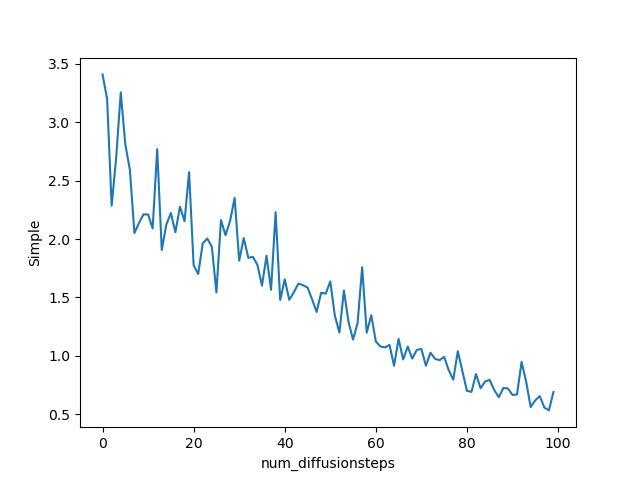
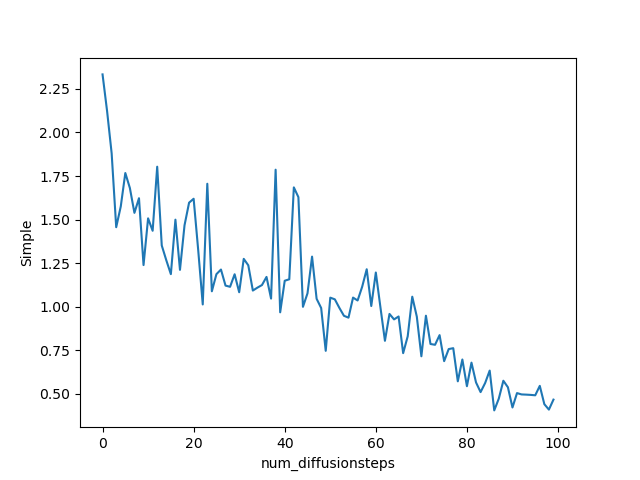
bug fix

diff --git a/models/diffusers/GaussianDiffusion.py b/models/diffusers/GaussianDiffusion.py
@@ -77,9 +77,7 @@ class GaussianDiffusion(nn.Module, DiffusionAB):
 
         # calculation for posterior q(x_{t-1} | x_t, x_0)
         self.posterior_var = (1.0 - self.alphas_cumprod_prev) / (1.0 - self.alphas_cumprod) * self.betas
-        self.posterior_log_var_clipped = torch.log(
-            torch.cat([self.posterior_var[:1], self.posterior_var[1:]])
-        )
+        self.posterior_log_var_clipped = torch.log(self.posterior_var)
         self.posterior_mean_coef1 = (
             self.betas * torch.sqrt(self.alphas_cumprod_prev) / (1.0 - self.alphas_cumprod)
         )
@@ -102,7 +100,9 @@ class GaussianDiffusion(nn.Module, DiffusionAB):
         t = context['t']
         assert 'x_0' in context
         x_0 = context['x_0']
-        return self.reverse_reparametrized(x_0, x_t_aug, x_t, t, cond, noise_true)
+        assert 'weights' in context
+        weights = context['weights']
+        return self.reverse_reparametrized(x_0, x_t_aug, x_t, t, cond, noise_true, weights)
 
 
     def forward_reparametrized(self, x_0: torch.Tensor, t: int, **kwargs) -> Tuple[torch.Tensor, Dict[str, torch.Tensor]]:
@@ -111,7 +111,7 @@ class GaussianDiffusion(nn.Module, DiffusionAB):
         x_t, noise = super().forward_reparametrized(x_0, t)
         return x_t, {'noise_true': noise, 'conditioning': cond}
 
-    def reverse_reparametrized(self, x_0, x_t_aug, x_t, t, cond, noise_true):
+    def reverse_reparametrized(self, x_0, x_t_aug, x_t, t, cond, noise_true, weights):
         '''
         Compute the reverse diffusion process for the current time step
         '''
@@ -143,13 +143,11 @@ class GaussianDiffusion(nn.Module, DiffusionAB):
 
         # Compute x_{t-1} from x_t through the reverse diffusion process for the current time step
         x_recon = 1 / torch.sqrt(alpha_t) * (x_t - (beta_t / torch.sqrt(1 - alpha_cumprod_t) * noise_t)) + (std_t * z)
-
         # Compute the mean squared error loss between the noise and the true noise
         L_mse = self._mse_loss(noise_t, noise_true)
         # Append the loss to the mse_losses list
         self.mse_losses.append(L_mse)
         # Compute the variational lower bound loss for the current time step
-
         L_vlb = self._vlb_loss(
             noise_t=noise_t.detach(),
             pred_log_var=log_var_t,
@@ -160,7 +158,9 @@ class GaussianDiffusion(nn.Module, DiffusionAB):
             alpha_t=alpha_t,
             alpha_cumprod_t=alpha_cumprod_t,
             clip_denoised=False,
+            weights=weights
         )
+
         # Append the loss to the vbl_losses list
         self.vlb_losses.append(L_vlb)
         # Return the reverse diffusion output and an empty dictionary
@@ -184,7 +184,7 @@ class GaussianDiffusion(nn.Module, DiffusionAB):
 
     #ported from https://github.com/openai/improved-diffusion/blob/main/improved_diffusion/gaussian_diffusion.py
     def _vlb_loss(
-        self, noise_t, pred_log_var, x_0, x_t, t, beta_t, alpha_t, alpha_cumprod_t, clip_denoised=False, model_kwargs=None
+        self, noise_t, pred_log_var, x_0, x_t, t, beta_t, alpha_t, alpha_cumprod_t, clip_denoised=False, model_kwargs=None, weights=None
     ):
         """
         Get a term for the variational lower-bound.
@@ -195,7 +195,6 @@ class GaussianDiffusion(nn.Module, DiffusionAB):
         pred_mean = self._p_mean(
             noise_t, x_t, t, beta_t, alpha_t, alpha_cumprod_t, clip_denoised=clip_denoised, model_kwargs=model_kwargs
         )
-
         kl = self._normal_kl(
             true_mean, true_log_variance_clipped, pred_mean, pred_log_var
         )
@@ -209,7 +208,7 @@ class GaussianDiffusion(nn.Module, DiffusionAB):
         # At the first timestep return the decoder NLL,
         # otherwise return KL(q(x_{t-1}|x_t,x_0) || p(x_{t-1}|x_t))
         output = torch.where((t == 0), decoder_nll, kl)
-        return output
+        return output / torch.from_numpy(weights).to(cst.DEVICE)[t]
 
     def _p_mean(self, noise_t, x_t, t,  beta_t, alpha_t, alpha_cumprod_t, clip_denoised=True, model_kwargs=None):
         '''
@@ -268,53 +267,21 @@ class GaussianDiffusion(nn.Module, DiffusionAB):
         :param log_scales: the Gaussian log var Tensor.
         :return: a tensor like x of log probabilities (in nats).
         """
-        '''
         assert x.shape == means.shape == log_scales.shape
         centered_x = x - means
-        var = torch.exp(log_scales)
-        first_term = - ((centered_x ** 2) / (2*var))
-        second_term = - log_scales*0.5
-        third_term = - (math.log(2*math.pi)/2)
-        log_probs = -((centered_x ** 2) / (2*var)) - (0.5 * log_scales) - (math.log(2 * math.pi)/2)
-        assert log_probs.shape == x.shape
-        '''
-        assert x.shape == means.shape == log_scales.shape
-        if torch.isnan(x).any():  # check for nan values in x
-            print("x contains nan:", torch.isnan(x).any())
-        centered_x = x - means
-        if torch.isnan(centered_x).any():  # check for nan values in centered_x
-            print("centered_x contains nan:", torch.isnan(centered_x).any())
         inv_stdv = torch.exp(log_scales)
-        if torch.isnan(inv_stdv).any():  # check for nan values in inv_stdv
-            print("inv_stdv contains nan:", torch.isnan(inv_stdv).any())
         plus_in = inv_stdv * (centered_x + 1.0)
-        if torch.isnan(plus_in).any():  # check for nan values in plus_in
-            print("plus_in contains nan:", torch.isnan(plus_in).any())
         cdf_plus = self._approx_standard_normal_cdf(plus_in)
-        if torch.isnan(cdf_plus).any():  # check for nan values in cdf_plus
-            print("cdf_plus contains nan:", torch.isnan(cdf_plus).any())
         min_in = inv_stdv * (centered_x - 1.0)
-        if torch.isnan(min_in).any():  # check for nan values in min_in
-            print("min_in contains nan:", torch.isnan(min_in).any())
         cdf_min = self._approx_standard_normal_cdf(min_in)
-        if torch.isnan(cdf_min).any():  # check for nan values in cdf_min
-            print("cdf_min contains nan:", torch.isnan(cdf_min).any())
         log_cdf_plus = torch.log(cdf_plus.clamp(min=1e-6))
-        if torch.isnan(log_cdf_plus).any():  # check for nan values in log_cdf_plus
-            print("log_cdf_plus contains nan:", torch.isnan(log_cdf_plus).any())
         log_one_minus_cdf_min = torch.log((1.0 - cdf_min).clamp(min=1e-6))
-        if torch.isnan(log_one_minus_cdf_min).any():  # check for nan values in log_one_minus_cdf_min
-            print("log_one_minus_cdf_min contains nan:", torch.isnan(log_one_minus_cdf_min).any())
         cdf_delta = cdf_plus - cdf_min
-        if torch.isnan(cdf_delta).any():  # check for nan values in cdf_delta
-            print("cdf_delta contains nan:", torch.isnan(cdf_delta).any())
         log_probs = torch.where(
             x < -0.999,
             log_cdf_plus,
             torch.where(x > 0.999, log_one_minus_cdf_min, torch.log(cdf_delta.clamp(min=1e-6))),
         )
-        if torch.isnan(log_probs).any():  # check for nan values in log_probs
-            print("log_probs contains nan:", torch.isnan(log_probs).any())
         return log_probs
 
 

diff --git a/models/NNEngine.py b/models/NNEngine.py
@@ -74,7 +74,6 @@ class NNEngine(L.LightningModule):
         self.simple_sampler = LossSecondMomentResampler(self.num_diffusionsteps)
         
 
-
     def forward(self, cond, x_0, is_train, batch_idx=None):
         # x_0 shape is (batch_size, seq_size=1, cst.LEN_EVENT_ONE_HOT=8)
         #x_0, cond = self.type_embedding(x_0, cond)
@@ -85,16 +84,6 @@ class NNEngine(L.LightningModule):
             elif isinstance(self.diffuser, GaussianDiffusion) and is_train:
                 self.t, _ = self.sampler.sample(x_0.shape[0])
             recon, context = self.single_step(cond, x_0, is_train, real_cond)
-            if batch_idx % 1000 == 0 and batch_idx != 0:
-                plt.plot(range(self.num_diffusionsteps), np.mean(self.simple_sampler._loss_history, axis=-1))
-                plt.xlabel('num_diffusionsteps')
-                plt.ylabel('Simple')
-                plt.savefig(f'data/plot/simple_loss{str(batch_idx)}.png')
-                plt.plot(range(self.num_diffusionsteps), np.mean(self.vlb_sampler._loss_history, axis=-1))
-                plt.xlabel('num_diffusionsteps')
-                plt.ylabel('VLB')
-                plt.savefig(f'data/plot/vlb_loss{str(batch_idx)}.png')
-
         else:
             self.t = torch.full(size=(x_0.shape[0],), fill_value=self.num_diffusionsteps-1, device=cst.DEVICE, dtype=torch.int64)
             if self.IS_AUGMENTATION and self.cond_type == 'full':
@@ -102,7 +91,6 @@ class NNEngine(L.LightningModule):
             for i in range(self.num_diffusionsteps-1, -1, -1):
                 recon, context = self.single_step(cond, x_0, is_train, real_cond)
                 self.t -= 1
-
         return recon, context
 
     def sampling(self, cond, x_0):
@@ -120,6 +108,7 @@ class NNEngine(L.LightningModule):
                 't': self.t,
                 'x_0': x_0,
                 'conditioning_aug': cond,
+                'weights': self.sampler.weights()
             })
 
             x_t, reverse_context = self.diffuser(x_t, context)
@@ -133,15 +122,14 @@ class NNEngine(L.LightningModule):
         # forward process
         x_t, context = self.diffuser.forward_reparametrized(x_0, self.t, **{"conditioning": cond})
         context.update({'x_t': x_t.detach().clone()})
-
         # augment
         x_t, cond = self.augment(x_t, context['conditioning'], is_train)
-
         context.update({
             'is_train': is_train,
             't': self.t,
             'x_0': x_0,
             'conditioning_aug': cond,
+            'weights': self.sampler.weights()
         })
 
         x_recon, reverse_context = self.diffuser(x_t, context)
@@ -203,16 +191,24 @@ class NNEngine(L.LightningModule):
         self.ema.update()
         return batch_loss_mean
 
-
     def on_train_epoch_start(self) -> None:
         print(f'learning rate: {self.optimizer.param_groups[0]["lr"]}')
 
-    
     def on_validation_start(self) -> None:
         loss = sum(self.train_losses) / len(self.train_losses)
         if isinstance(self.diffuser, GaussianDiffusion):
             L_simple = sum(self.simple_train_losses) / len(self.simple_train_losses)
             L_vlb = sum(self.vlb_train_losses) / len(self.vlb_train_losses)
+            plt.plot(range(self.num_diffusionsteps), np.mean(self.simple_sampler._loss_history, axis=-1))
+            plt.xlabel('num_diffusionsteps')
+            plt.ylabel('Simple')
+            plt.savefig(f'data/plot/simple_loss{self.current_epoch}.png')
+            plt.close()  
+            plt.plot(range(self.num_diffusionsteps), np.mean(self.vlb_sampler._loss_history, axis=-1))
+            plt.xlabel('num_diffusionsteps')
+            plt.ylabel('VLB')
+            plt.savefig(f'data/plot/vlb_loss{self.current_epoch}.png')
+            plt.close() 
             if self.IS_WANDB:
                 wandb.log({'train loss simple': L_simple}, step=self.current_epoch + 1)
                 wandb.log({'train loss vlb': L_vlb}, step=self.current_epoch + 1)

diff --git a/models/diffusers/CDT/CDT.py b/models/diffusers/CDT/CDT.py
@@ -179,7 +179,8 @@ class CDT(nn.Module):
             #nn.LSTM(input_size, input_size, 2, batch_first=True, dropout=dropout, bidirectional=False)
             nn.TransformerEncoderLayer(d_model=input_size, nhead=num_heads, dim_feedforward=input_size*mlp_ratio, dropout=dropout, batch_first=True) for _ in range(depth)
         ]) 
-        self.linear = nn.Linear(input_size, 2 * input_size, device=cst.DEVICE)
+        self.fc_noise = nn.Linear(input_size*self.seq_size, input_size, device=cst.DEVICE)
+        self.fc_var = nn.Linear(input_size*self.seq_size, input_size, device=cst.DEVICE)
 
 
     def forward(self, x, cond, t):
@@ -196,12 +197,11 @@ class CDT(nn.Module):
         full_input = full_input.add(diff_time_emb.view(diff_time_emb.shape[0], 1, diff_time_emb.shape[1]))
         for layer in self.layers:
             full_input = layer(full_input)
-        if (x.shape[1] != 1):
-            x = x[:, -self.input_seq_len:, :]
-        out = self.linear(x)
-        out = rearrange(out, 'n l (c m) -> n l c m', c=2, m=x.shape[-1])
-        # it gives in output the noise and the variances
-        noise, var = out[:, :, 0], out[:, :, 1]
+        full_input = rearrange(full_input, 'n l f -> n (l f)')
+        noise = self.fc_noise(full_input)
+        var = self.fc_var(full_input)
+        noise = rearrange(noise, 'n l -> n 1 l')
+        var = rearrange(var, 'n l -> n 1 l')
         return noise, var
 
     def token_drop(self, cond):

diff --git a/configuration.py b/configuration.py
@@ -64,7 +64,7 @@ class Configuration:
         self.HYPER_PARAMETERS[LearningHyperParameter.NUM_DIFFUSIONSTEPS] = 100
         self.HYPER_PARAMETERS[LearningHyperParameter.SIZE_TYPE_EMB] = 1     # try higher values
         self.HYPER_PARAMETERS[LearningHyperParameter.SIZE_ORDER_EMB] = cst.LEN_EVENT + self.HYPER_PARAMETERS[LearningHyperParameter.SIZE_TYPE_EMB] - 1
-        self.HYPER_PARAMETERS[LearningHyperParameter.LAMBDA] = 1       #its the parameter used in the loss function to prevent L_vlb from overwhleming L_simple
+        self.HYPER_PARAMETERS[LearningHyperParameter.LAMBDA] = 0.01       #its the parameter used in the loss function to prevent L_vlb from overwhleming L_simple
         self.HYPER_PARAMETERS[LearningHyperParameter.REG_TERM_WEIGHT] = 1
 
         self.HYPER_PARAMETERS[LearningHyperParameter.CDT_DEPTH] = 8
